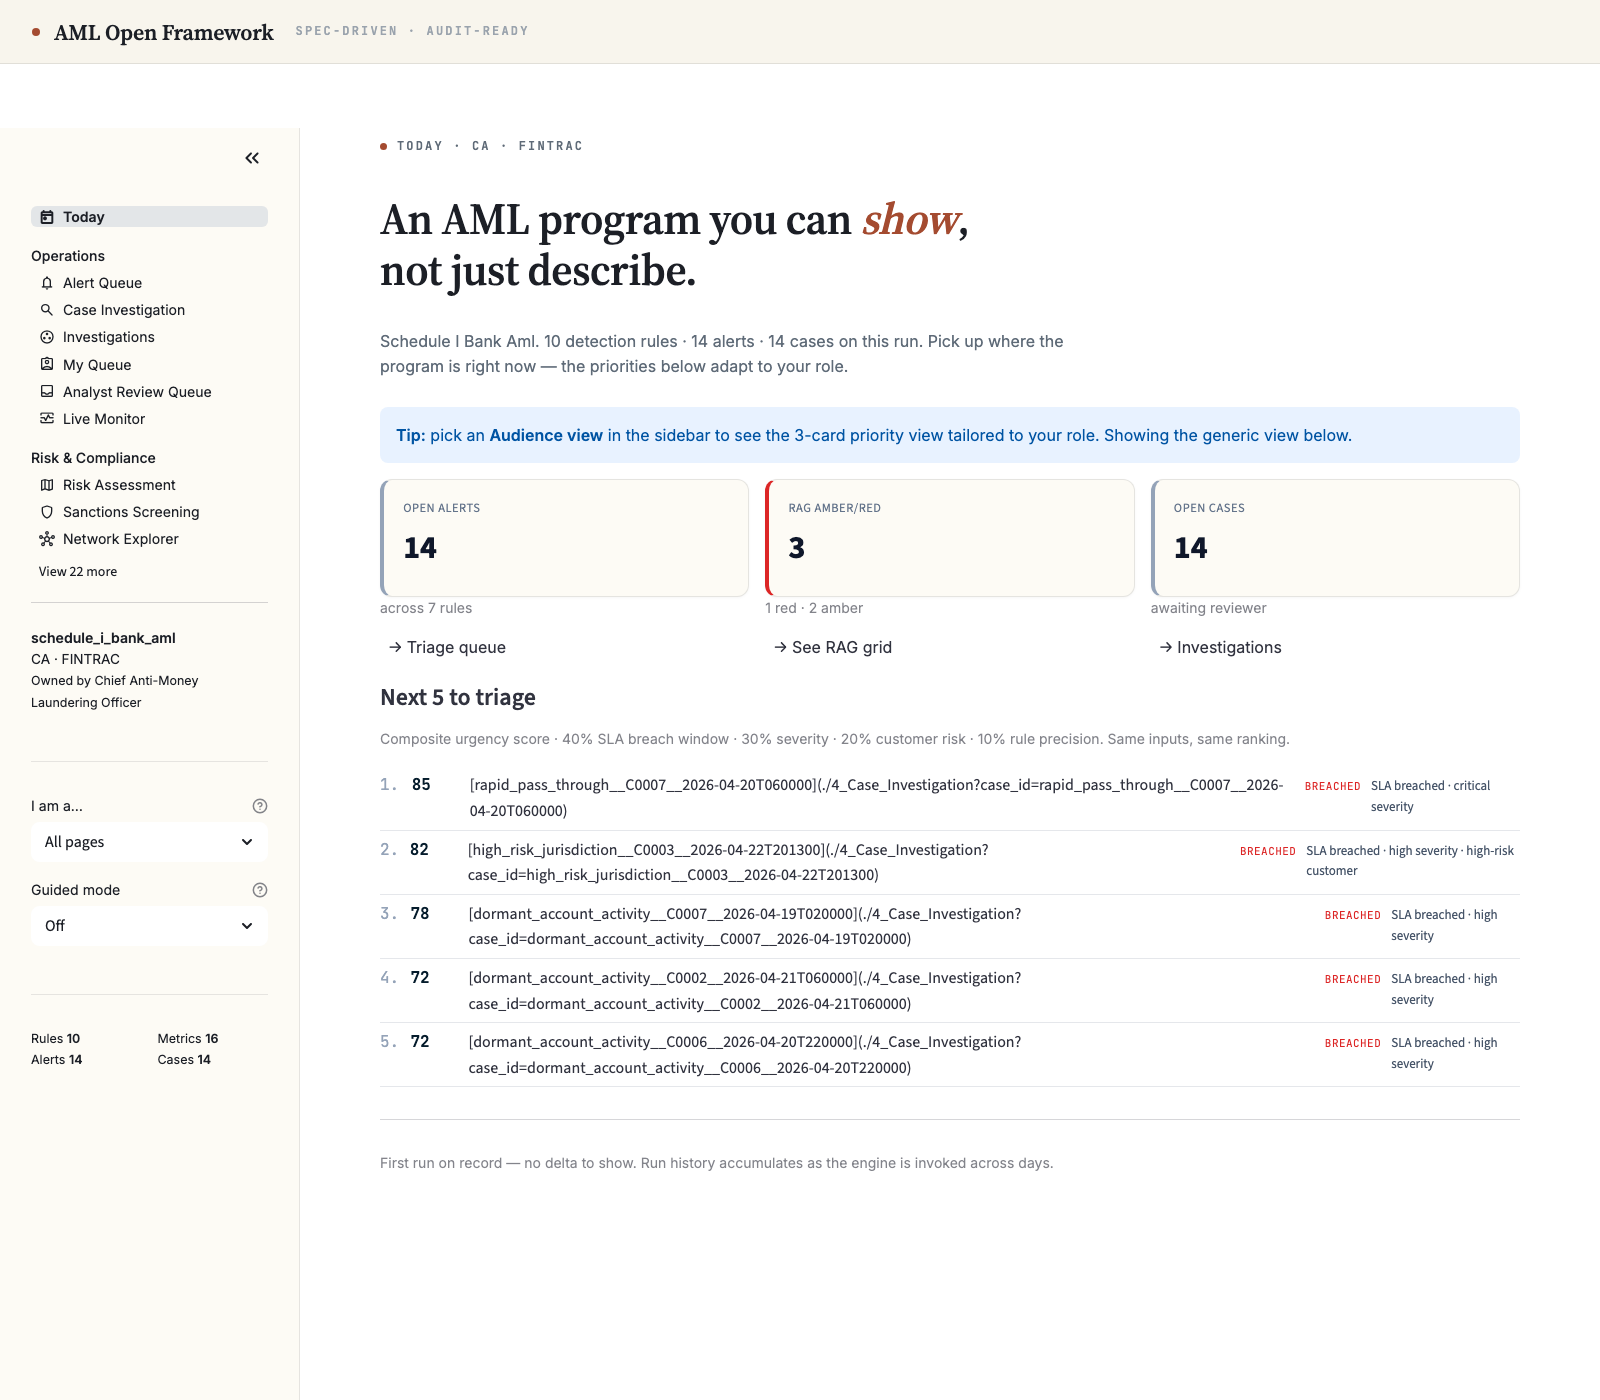
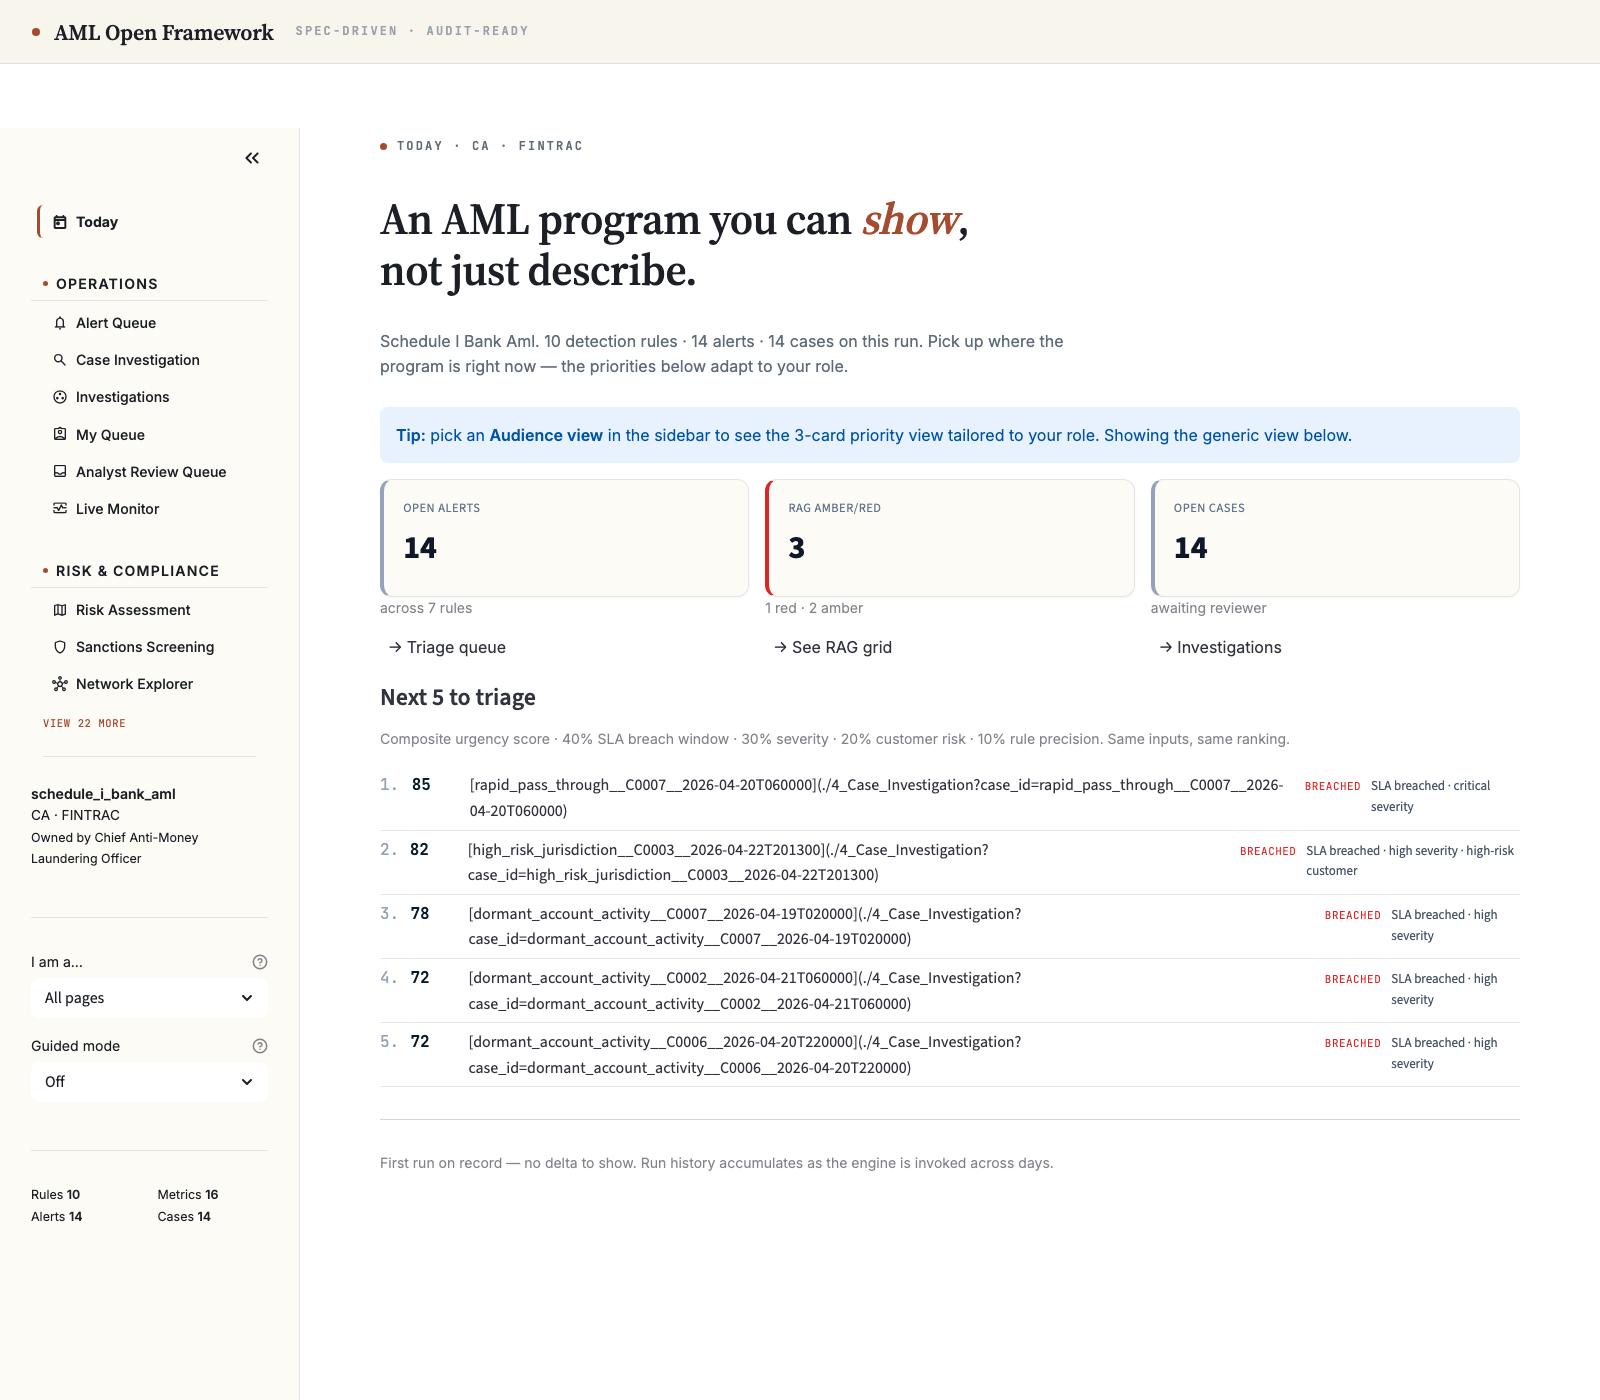
PR-NAV-2: brand-polish on the hierarchical sidebar (#197)
* PR-NAV-2: brand-polish on the hierarchical sidebar

PR-NAV-1 grouped 31 pages into 7 categories. The hierarchy was
logically sound but visually it still read as default Streamlit —
section headers blended into items, no brand-accent on the active
page, default-spacing list. The dashboard's brand DNA (cream / ink
/ burnt-orange · Source Serif display · JetBrains Mono eyebrows)
was everywhere except the sidebar.

This PR aligns the sidebar to the same DNA via CSS injection in
the existing components.py CUSTOM_CSS pipeline. No DOM changes,
no Streamlit version bump, no new component dependencies.

Selectors target stable Streamlit testids (verified 2026-05-02
against the pinned streamlit version):
- stNavSectionHeader      — "Operations" / "Risk & Compliance" / …
- stSidebarNavLink        — each <a> page link
- stSidebarNavSeparator   — <hr> between sections
- stSidebarNavViewButton  — "View N more" overflow toggle

Plus aria-current="page" for the active-page accent border.

Treatment
- Section headers → JetBrains Mono uppercase eyebrow, 10px,
  letter-spacing 0.12em, brand-accent dot prefix via ::before, thin
  rule below. Mirrors the .dna-eyebrow pattern page_header() emits
  at the top of every page.
- Page links → 13.5px Inter, 6px vertical padding, brand-cream
  hover background, 6px border-radius. Comfortable but denser than
  Streamlit default.
- Active page → burnt-orange (--dna-accent) 3px left border + bold
[…]

diff --git a/src/aml_framework/dashboard/components.py b/src/aml_framework/dashboard/components.py
@@ -263,6 +263,104 @@ section[data-testid="stSidebar"] [data-testid="stMarkdownContainer"] a {
     color: var(--dna-accent) !important;
 }
 
+/* ---- Sidebar nav: brand-polish on the hierarchical sidebar (PR-NAV-2) ----
+ *
+ * PR-NAV-1 grouped 31 pages into 7 categories using Streamlit's
+ * native `st.navigation(Dict[str, List[st.Page]])`. The hierarchy is
+ * logically sound but visually it still reads as default Streamlit —
+ * section headers blend into items, no brand-accent on the active
+ * page, default-spacing list. This block aligns the nav to the
+ * dashboard's brand DNA (cream / ink / burnt-orange · Source Serif
+ * display · JetBrains Mono eyebrows · same `dna-eyebrow` pattern
+ * page_header() emits).
+ *
+ * Selectors come from the live Streamlit DOM (verified 2026-05-02).
+ * All four are stable testids:
+ *   stNavSectionHeader      — "Operations" / "Risk & Compliance" / …
+ *   stSidebarNavLink        — each <a> page link
+ *   stSidebarNavSeparator   — <hr> between sections
+ *   stSidebarNavViewButton  — "View N more" overflow toggle
+ *
+ * Active page: `aria-current="page"` is set by Streamlit on the link
+ * for the currently-rendered page. Used here as the selector for the
+ * burnt-orange "I am here" indicator that mirrors the landing site's
+ * accent-dot pattern.
+ */
+
+/* Section headers — JetBrains Mono uppercase eyebrow, brand accent
+ * dot prefix, thin rule below. Mirrors the .dna-eyebrow pattern that
+ * page_header() emits at the top of every page. */
+section[data-testid="stSidebar"] [data-testid="stNavSectionHeader"] {
+    font-family: var(--dna-mono) !important;
+    font-size: 10px !important;
+    font-weight: 600 !important;
+    text-transform: uppercase !important;
+    letter-spacing: 0.12em !important;
+    color: var(--dna-ink-dim) !important;
+    padding: 18px 8px 6px 12px !important;
+    margin-top: 4px !important;
+    border-bottom: 1px solid var(--dna-rule);
+    display: flex !important;
+    align-items: center !important;
+    gap: 8px !important;
+}
+/* Accent dot prefix — pure CSS, no DOM change. */
+section[data-testid="stSidebar"] [data-testid="stNavSectionHeader"]::before {
+    content: "";
+    display: inline-block;
+    width: 5px;
+    height: 5px;
+    border-radius: 50%;
+    background: var(--dna-accent);
+    flex-shrink: 0;
+}
+
+/* Page links — comfortable spacing, brand-cream hover, smaller font
+ * than Streamlit default to densify without going Linear-tight. */
+section[data-testid="stSidebar"] [data-testid="stSidebarNavLink"] {
+    font-family: var(--dna-body) !important;
+    font-size: 13.5px !important;
+    font-weight: 500 !important;
+    padding: 6px 12px !important;
+    margin: 1px 6px !important;
+    border-radius: 6px !important;
+    border-left: 3px solid transparent !important;
+    transition: background 120ms ease, border-color 120ms ease;
+}
+section[data-testid="stSidebar"] [data-testid="stSidebarNavLink"]:hover {
+    background: var(--dna-bg) !important;  /* brand cream tint */
+}
+
+/* Active page — burnt-orange left border + bolder text. Mirrors the
+ * "I am here" indicator from docs/pitch/landing/index.html (the
+ * sticky topbar's brand-accent dot). No background change — keeps
+ * the active item visually quiet but unmistakable. */
+section[data-testid="stSidebar"] [data-testid="stSidebarNavLink"][aria-current="page"] {
+    border-left-color: var(--dna-accent) !important;
+    font-weight: 700 !important;
+    color: var(--dna-ink) !important;
+    background: transparent !important;
+}
+
+/* Separator between sections — match the brand rule colour, tighter. */
+section[data-testid="stSidebar"] [data-testid="stSidebarNavSeparator"] {
+    border-color: var(--dna-rule) !important;
+    margin: 2px 12px !important;
+}
+
+/* "View N more" overflow button when sections collapse. Subtle
+ * mono-styled chip rather than Streamlit's default button. */
+section[data-testid="stSidebar"] [data-testid="stSidebarNavViewButton"] {
+    font-family: var(--dna-mono) !important;
+    font-size: 10.5px !important;
+    text-transform: uppercase !important;
+    letter-spacing: 0.06em !important;
+    color: var(--dna-accent) !important;
+    background: transparent !important;
+    border: none !important;
+    padding: 6px 12px !important;
+}
+
 /* ---- KPI metric cards ---- */
 [data-testid="stMetricValue"] {
     font-size: clamp(1.2rem, 2.2vw, 1.8rem) !important;

diff --git a/tests/test_e2e_dashboard.py b/tests/test_e2e_dashboard.py
@@ -299,9 +299,14 @@ class TestAllPagesRender:
         if view_more.count() > 0:
             view_more.first.click()
             browser_page.wait_for_timeout(800)
-        sidebar_text = sidebar.inner_text()
+        # PR-NAV-2 added `text-transform: uppercase` to section headers
+        # via CSS. Playwright's `inner_text()` returns the *rendered*
+        # text content (per MDN spec), so headers come back uppercased
+        # even though the underlying DOM text is mixed-case. Lowercase
+        # both sides for the case-insensitive comparison.
+        sidebar_text = sidebar.inner_text().lower()
         # At least the active section's first item is visible.
-        assert "Alert Queue" in sidebar_text
+        assert "alert queue" in sidebar_text
         # All 7 category headers from PR-NAV-1 must now be present —
         # the sidebar's table of contents post-expansion.
         for category in (
@@ -313,7 +318,7 @@ class TestAllPagesRender:
             "Audit & Reference",
             "FinTech",
         ):
-            assert category in sidebar_text, (
+            assert category.lower() in sidebar_text, (
                 f"Category {category!r} missing from sidebar — PR-NAV-1's hierarchy regressed?"
             )
         nav_links = sidebar.locator("a")
